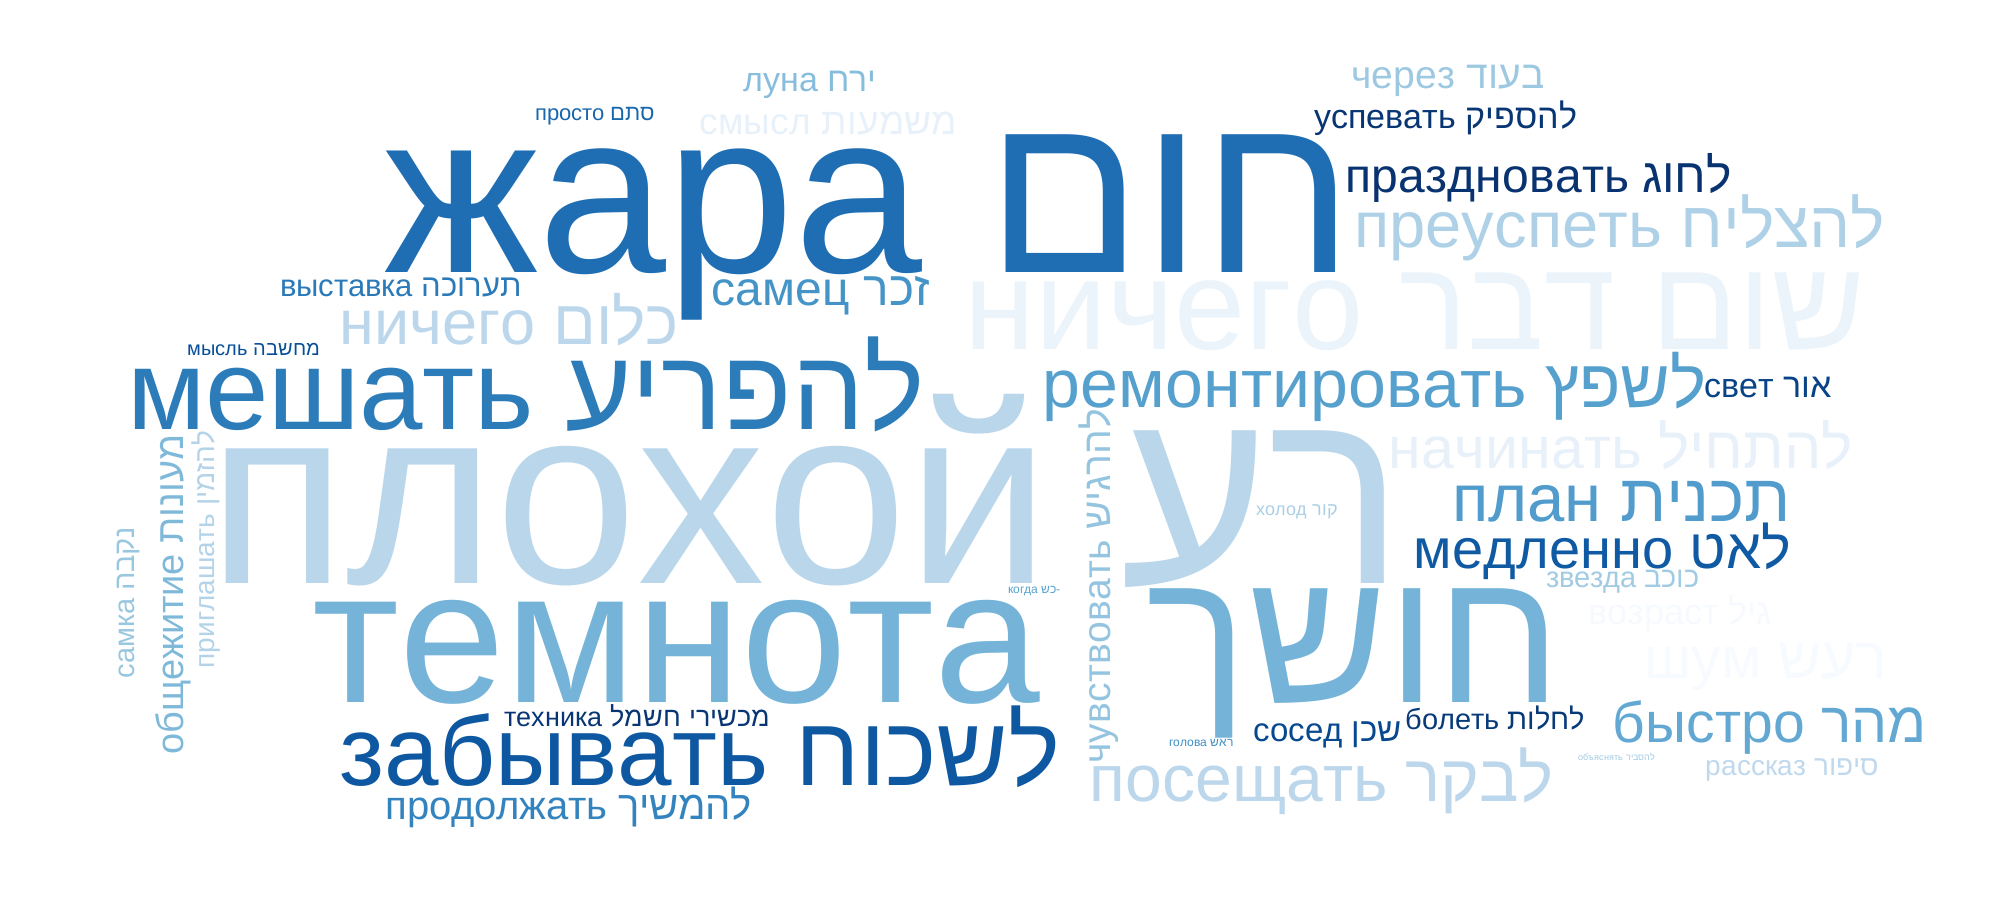
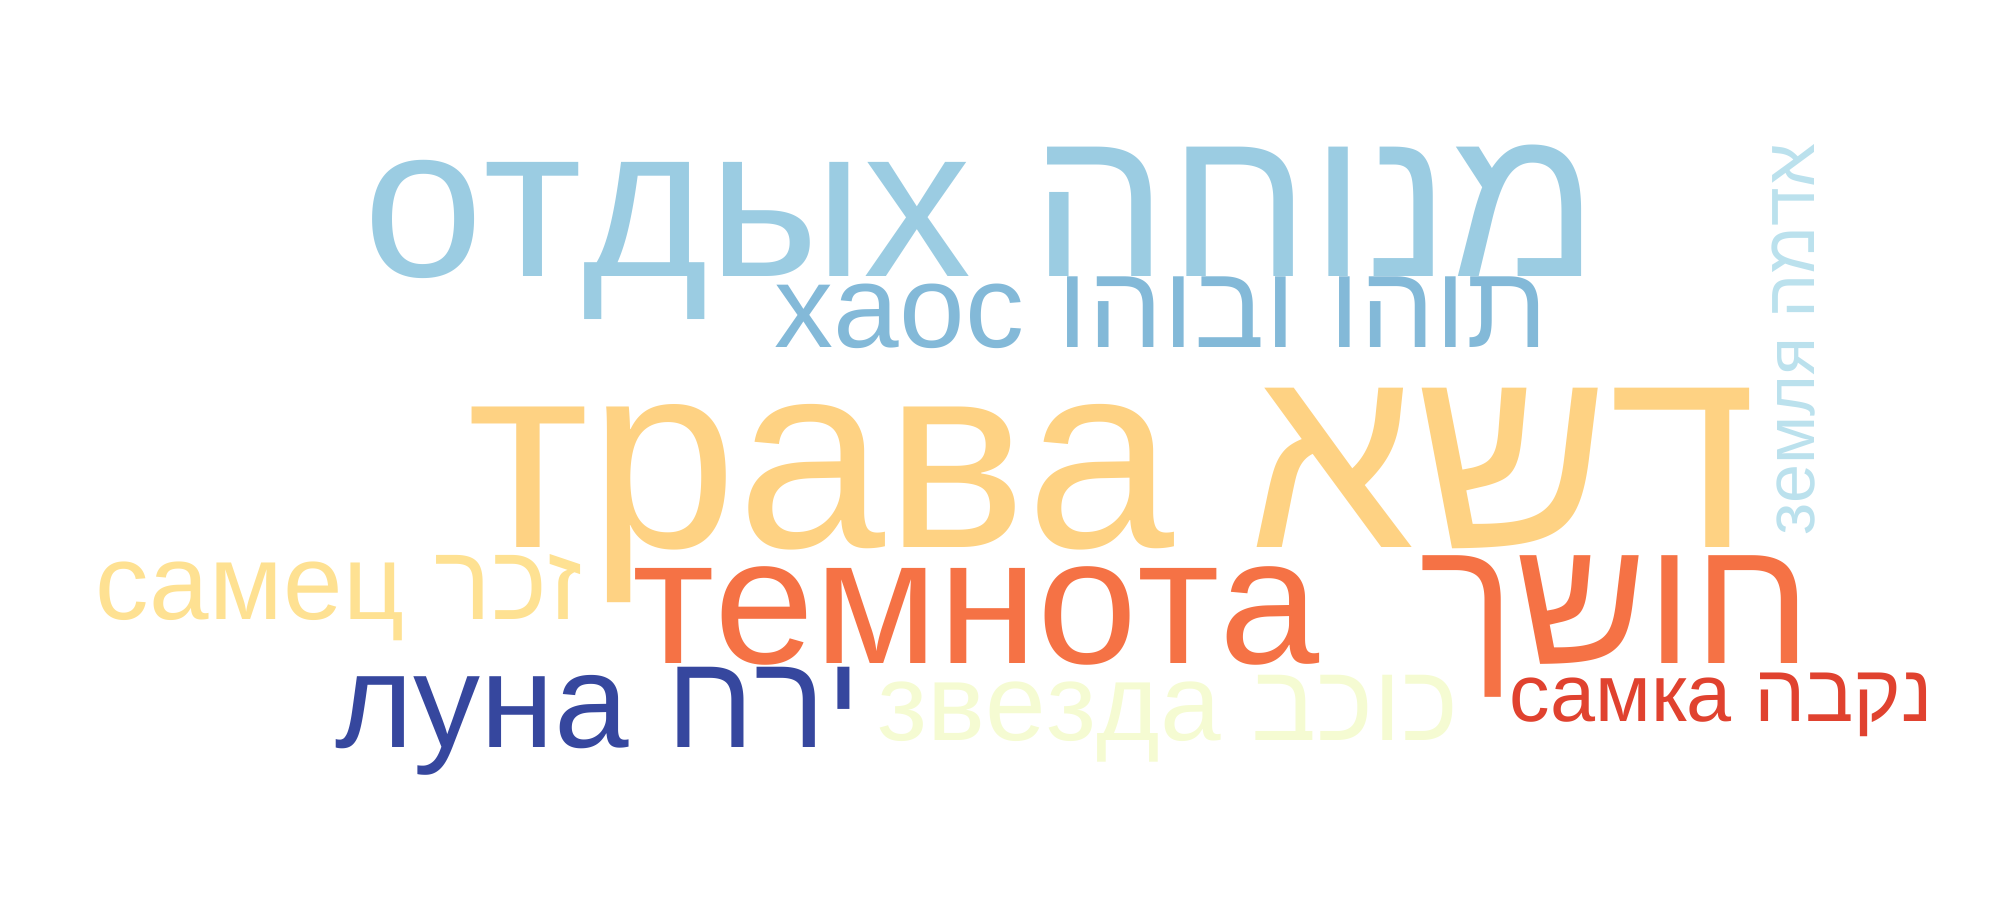
Add parrot

Changed region(s): [[0.031, 0.0622, 0.961, 0.9333], [0.372, 0.0622, 0.434, 0.1244]]

diff --git a/mycards/templates/mycards/base.html b/mycards/templates/mycards/base.html
@@ -8,9 +8,9 @@
 </head>
 <body>
 <!--  <header class="container pb-3"> -->
-    <nav class="navbar navbar-expand-lg navbar-light mb-3" style="background-color: white; border-bottom: 5px solid #23418b">
-      <a class="navbar-brand" href="{% url 'main' %}">
-        <span style="color: #23418b"><b>ИВРИ</b></span><img src="{% static 'img/brands.jpg' %}" width="30" height="30" class="d-inline-block align-top mr-0 rounded" alt=""><span style="color: #23418b"><b>ИЛИЯ</b></span>
+    <nav class="navbar navbar-expand-lg navbar-light mb-0 pb-0" style="background-color: white; border-bottom: 5px solid #23418b">
+      <a class="navbar-brand p-0 m-0" href="{% url 'main' %}">
+        <span class="p-0 m-0" style="color: #23418b"><b></b></span><img src="{% static 'img/parrot3.png' %}" height="50" class="d-inline-block align-top mr-0 rounded" alt=""><span style="color: #23418b"><b></b></span>
       </a>
       <button class="navbar-toggler" type="button" data-toggle="collapse" data-target="#navbarNav" aria-controls="navbarNav" aria-expanded="false" aria-label="Toggle navigation">
         <span class="navbar-toggler-icon"></span>
@@ -18,7 +18,7 @@
       <div class="collapse navbar-collapse text-center" id="navbarNav">
         <ul class="navbar-nav">
           <li class="nav-item">
-            <a class="nav-link" style="color: white" href="#">Существ</a>
+
           </li>
           <li class="nav-item">
             <a class="nav-link" href="{% url 'nouns' %}">Существительные</a>

diff --git a/mycards/views.py b/mycards/views.py
@@ -38,7 +38,7 @@ def cards_main(request):
     cake_mask = np.array(plt.imread(os.path.join(settings.BASE_DIR, 'mycards/static/img/мысль2.jpeg')))
 
     cloud = wordcloud.WordCloud(font_path=os.path.join(settings.BASE_DIR, 'mycards/static/img/Arimo-Regular.ttf'), mask=cake_mask,
-                                background_color='#FFFFFF', colormap='Blues', max_words=40, font_step=2, width=1800,
+                                background_color='#FFFFFF', colormap='RdYlBu', max_words=40, font_step=2, width=1800,
                                 height=1600, prefer_horizontal=0.8).generate_from_frequencies(word_freq)
 
 
